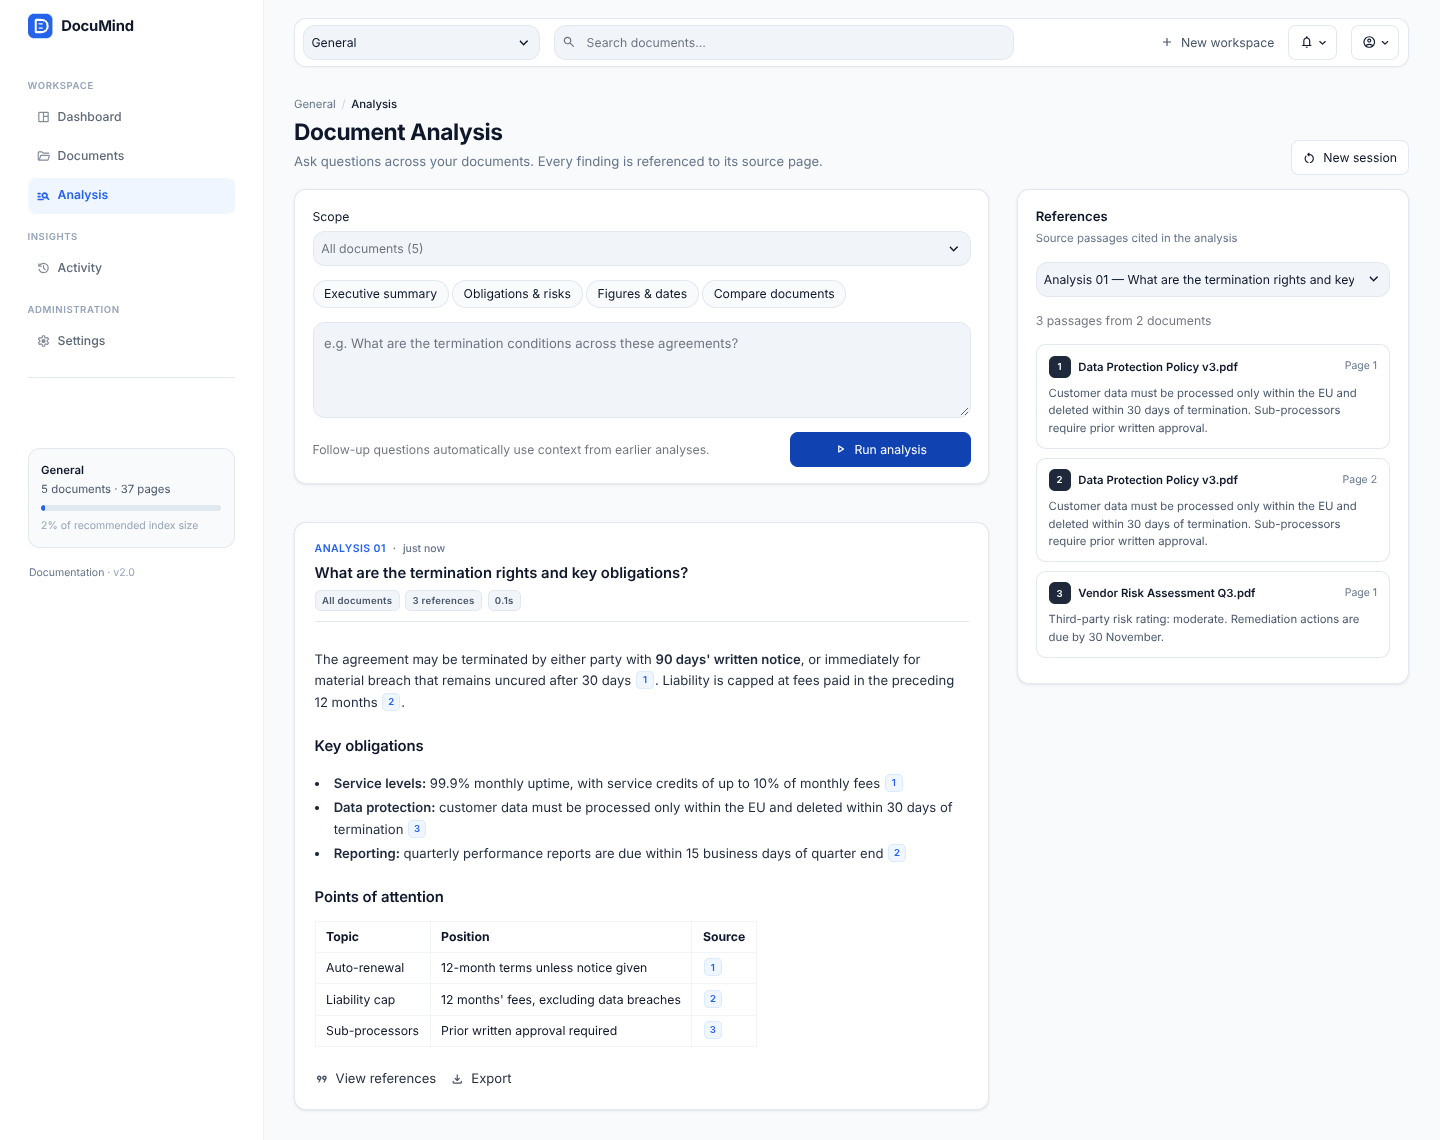
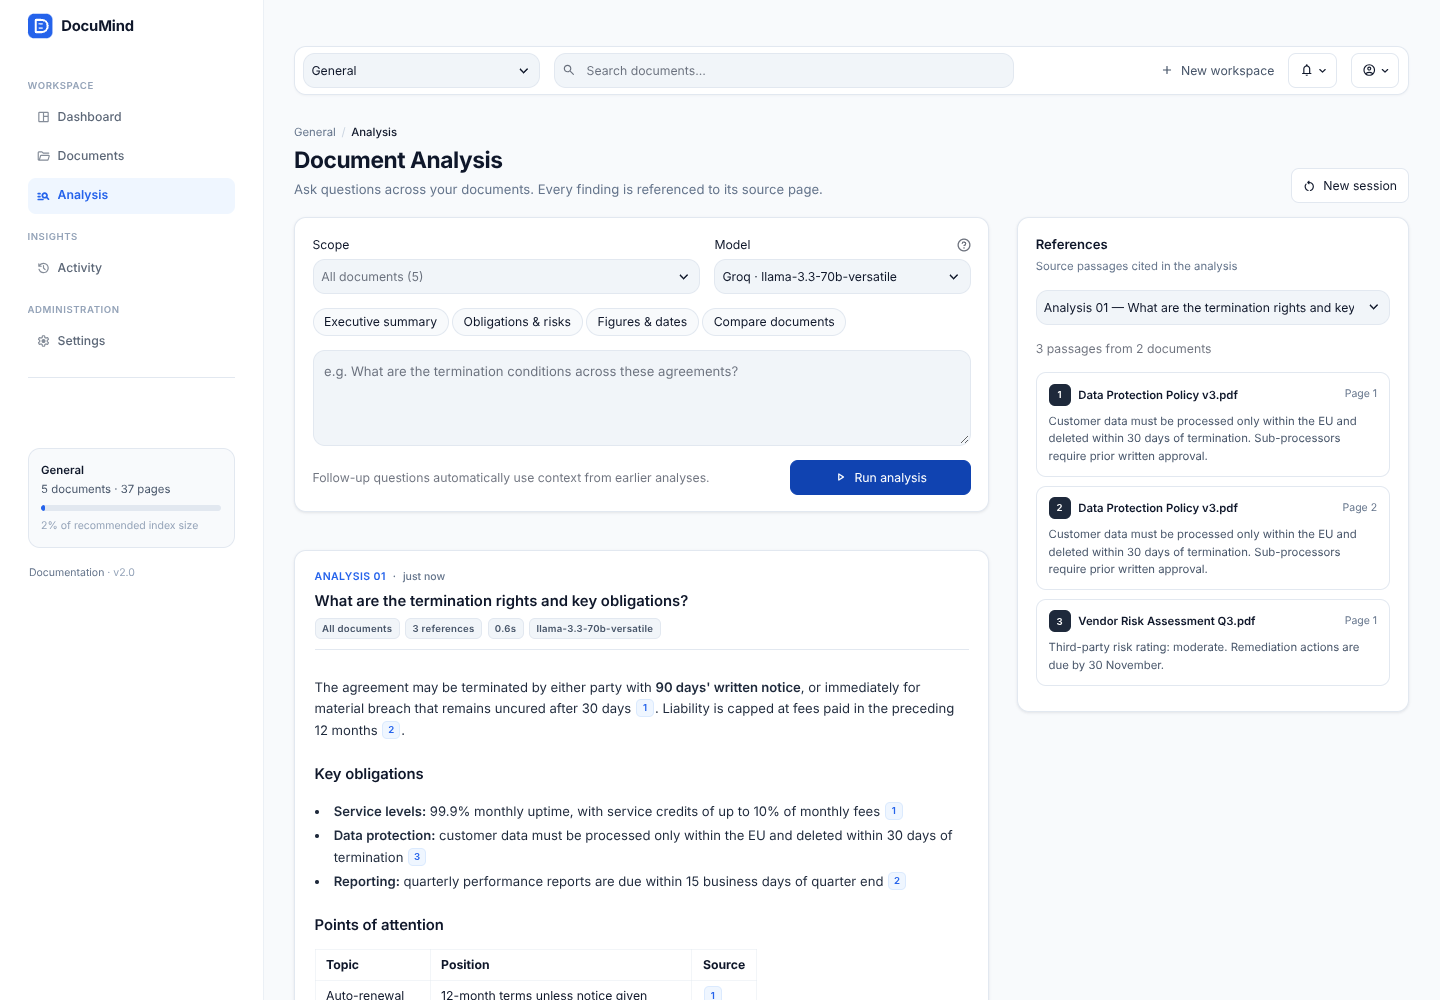
docs: v2.1.0 — changelog, multi-model architecture notes, updated screenshot
Claude-Session: https://claude.ai/code/session_01Kgjixy9g4qFLTb9oP1y68R

diff --git a/app.py b/app.py
@@ -102,7 +102,7 @@ def _sidebar() -> None:
         )
         st.html(
             '<div class="dm-side-foot"><a href="https://github.com/Ajayvishal23/documind-rag" target="_blank">'
-            "Documentation</a> · v2.0</div>"
+            "Documentation</a> · v2.1</div>"
         )
 
 

diff --git a/src/documind/__init__.py b/src/documind/__init__.py
@@ -4,4 +4,4 @@ from documind.compat import ensure_modern_sqlite
 
 ensure_modern_sqlite()  # must run before anything imports chromadb
 
-__version__ = "2.0.1"
+__version__ = "2.1.0"

diff --git a/docs/ARCHITECTURE.md b/docs/ARCHITECTURE.md
@@ -165,3 +165,26 @@ flowchart LR
   citation chips.
 - **Per-session preferences** (model, top-k, strategy, display name) are passed into the shared cached
   pipeline per call, never written to it.
+
+## 8. Multi-model support
+
+```mermaid
+flowchart LR
+    K[API keys in env / secrets] --> CAT[model_catalog<br/>live list per provider<br/>cached 10 min]
+    CAT --> PICK[Model picker<br/>in Analysis composer]
+    PICK --> RUN{Run analysis}
+    RUN -->|ok| REP[Report card<br/>shows model used]
+    RUN -->|model unavailable| NEXT[Try next model<br/>same provider first, max 4]
+    NEXT --> RUN
+    RUN -->|bad key / rate limit / network| ERR[Actionable error<br/>no retry]
+```
+
+- **Catalog.** Groq and OpenAI model lists are fetched live with the configured keys (8 s timeout,
+  no retries) and filtered to chat models; a built-in list is used if the lookup fails. Ollama
+  appears when selected in Settings.
+- **Fallback.** Only "model unavailable" errors (decommissioned, no access, not found) trigger a
+  fallback, since another model can fix those. Authentication, rate-limit and network errors stop
+  immediately with a specific message. The model that worked is remembered for the session.
+- **Key changes.** Secrets are re-read on every run and a hash of each key is part of the client
+  cache key, so a replaced key takes effect without restarting the app.
+- **Diagnostics.** Settings → Assistant model → *Test connection* makes a one-token request.

diff --git a/CHANGELOG.md b/CHANGELOG.md
@@ -1,0 +1,21 @@
+# Changelog
+
+## 2.1.0 — Multi-model analysis
+- Model picker in the Analysis composer listing every model your API keys can use (Groq and OpenAI fetched live; Ollama when selected)
+- Automatic fallback to the next model when one is unavailable to your key; reports show the model used
+- Settings: model dropdown, **Test connection**, clear "Key configured / Key rejected" status
+- Actionable messages for rejected keys, rate limits, network problems and unavailable models
+- Replaced API keys take effect without restarting the app
+- Deployment hardening: SQLite shim for ChromaDB, CPU-only PyTorch, readable startup error screen
+- Generic, multi-user greeting and profile (optional per-session display name)
+
+## 2.0.0 — Document intelligence workspace
+- Redesigned as an enterprise SaaS-style app: sidebar navigation, top bar, dashboard, documents table, activity log, settings
+- Analysis results as report cards with citation markers, a references panel and Markdown export
+- Workspaces backed by separate ChromaDB collections, with a per-workspace activity log
+- Responsive layout for desktop, tablet and mobile
+
+## 1.0.0 — Initial release
+- Multi-PDF upload, per-page extraction, chunking, Sentence-Transformers embeddings, ChromaDB
+- Conversational retrieval with question rewriting, MMR search and page-level citations
+- Tests, CI, Docker and deployment guide
